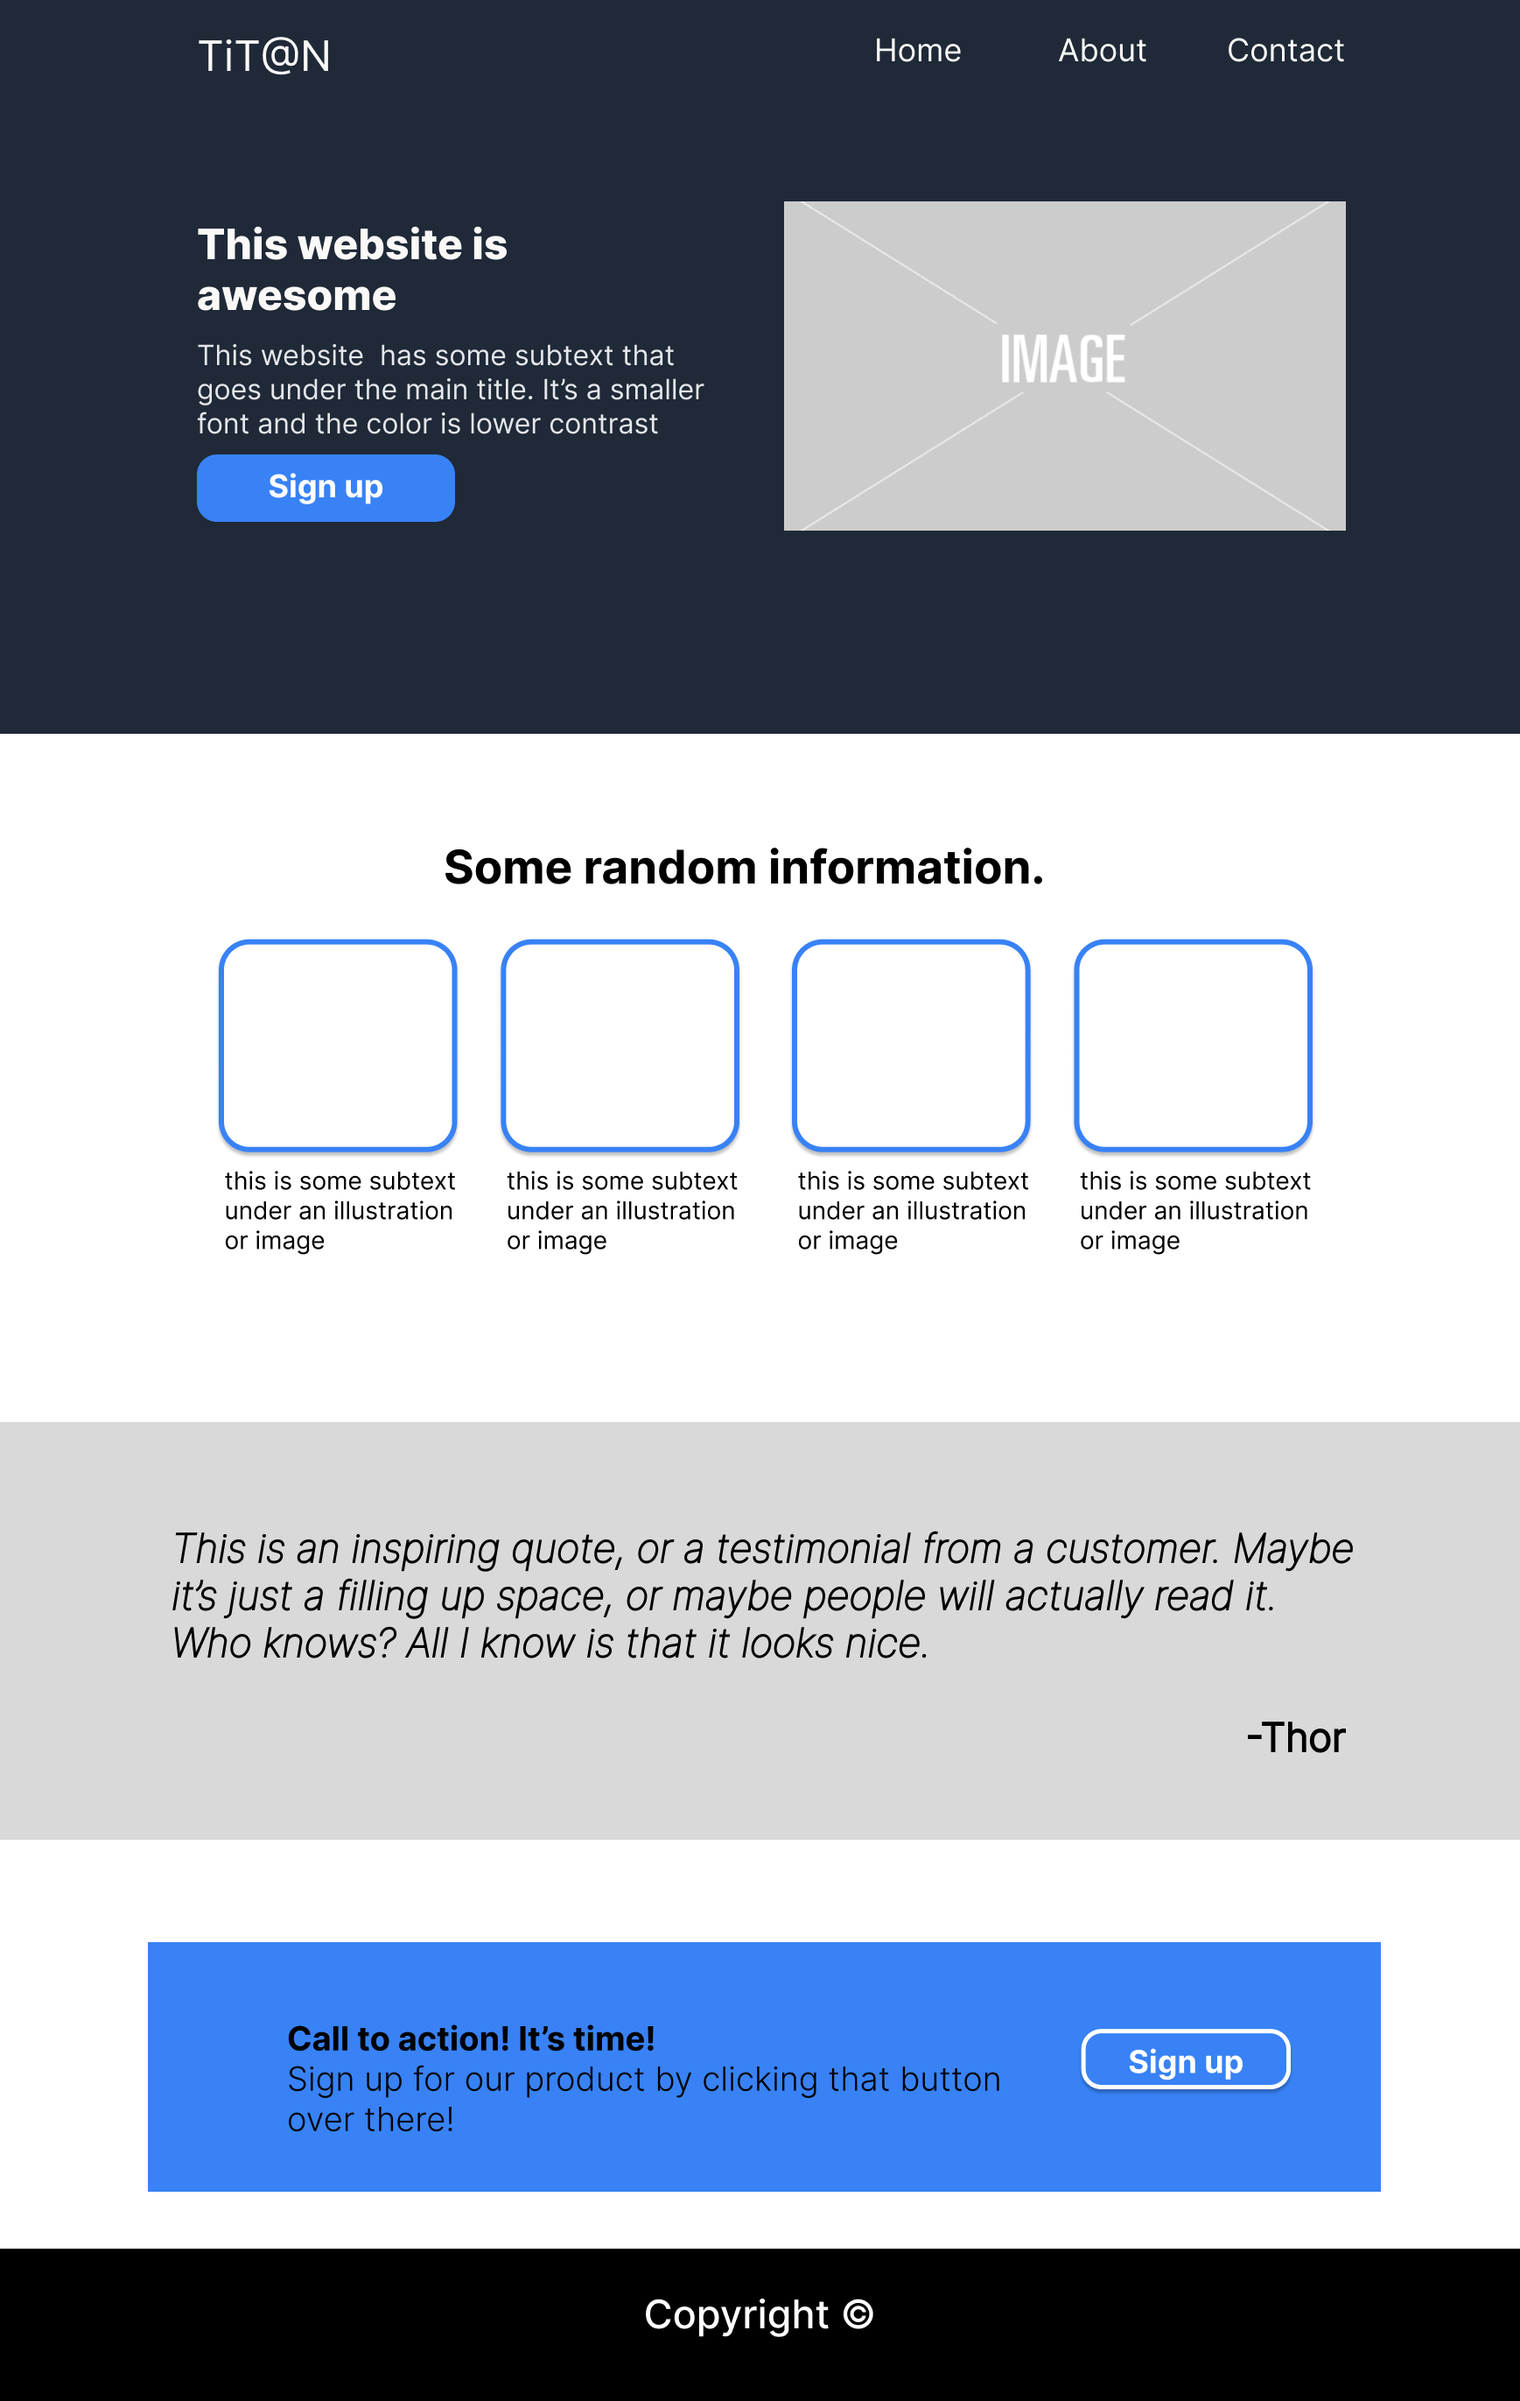
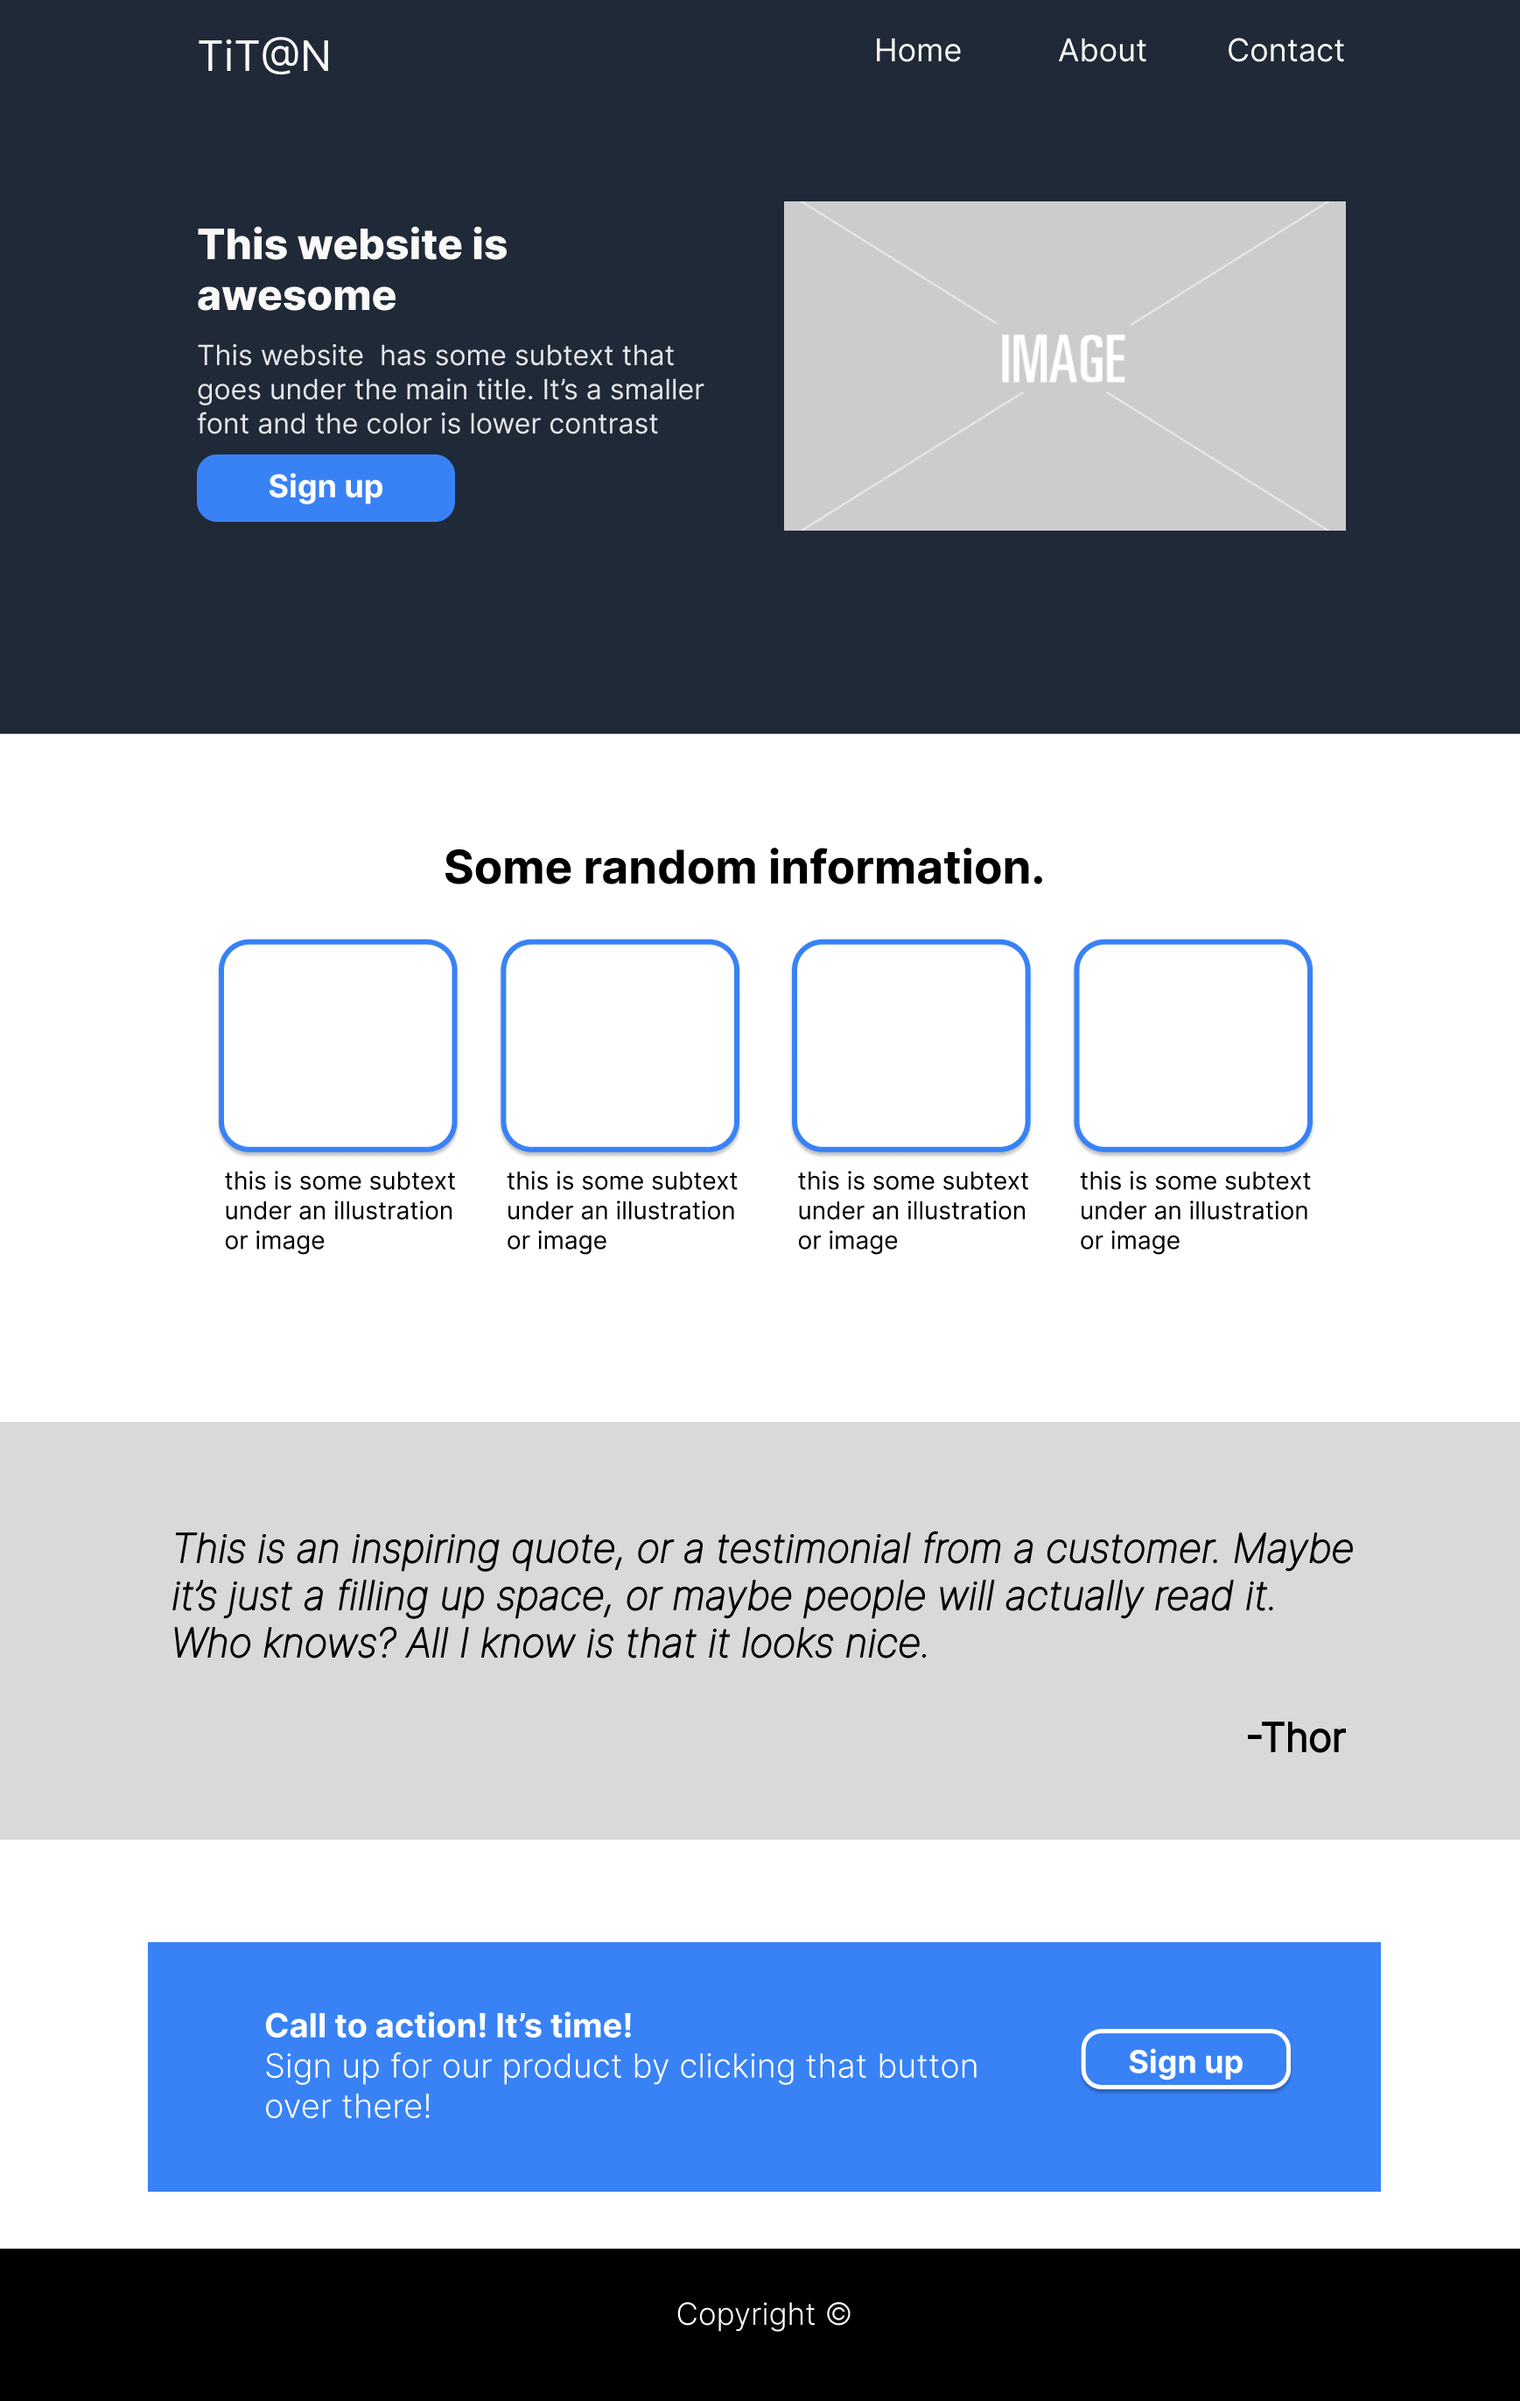
Edit margins and paddings across all pages

Changed region(s): [[0.1554, 0.837, 0.6528, 0.899], [0.4352, 0.961, 0.5596, 0.992]]

diff --git a/css/style.css b/css/style.css
@@ -102,13 +102,11 @@ footer {
     margin-bottom: 30px;
 }
 
-.hero-img {
-    max-width: 100%;
-}
-
 .hero img {
-    border-radius: 30px;
     object-fit: cover;
+    width: 550px;
+    height: 250px;
+    padding-left: 50px;
 }
 
 .hero .wrapper {
@@ -164,7 +162,7 @@ footer {
 
 .quote-box .wrapper {
     background: #E5E7EB;
-    padding: 100px 200px;
+    padding: 70px 200px;
     font-family: 'RobotoLightItalic', sans-serif;
     font-size: 36px;
     color: #1F2937;
@@ -176,7 +174,8 @@ footer {
 
 .quote-box .wrapper .reviewer {
     text-align: right;
-    font-family: 'RobotoRegular';
+    font-family: 'RobotoRegular', sans-serif;
+    font-size: 24px;
 }
 
 .action {
@@ -186,12 +185,12 @@ footer {
 
 .action .wrapper {
     background-color: rgb(56, 130, 246);
-    width: 800px;
+    width: 850px;
     border-radius: 10px;
     display: flex;
     justify-content: space-between;
     color: rgb(249, 250, 248);
-    padding: 50px;
+    padding: 40px 50px;
     align-content: center;
     align-items: center;
 }
@@ -218,7 +217,7 @@ footer {
 }
 
 .company .history{
-    margin-left: 15px;
+    margin-left: 40px;
     line-height: 1.3;
 }
 

diff --git a/pages/about.html b/pages/about.html
@@ -32,15 +32,14 @@
         <section class="hero">
             <div class="wrapper company">
                 <div class="history">
-                    <h1>Only the best digital marketing solutions!</h1>
+                    <h1>Build Your Brand!</h1>
                     <p>Established in the year 2020, we are an award-winning digital marketing
                     agency that specializes in SEO, PPC, and social media marketing. We are here
-                    to help you grow your business and achieve your goals. We are a team of
-                    passionate digital marketers who are always ready to help you. Dedicated
+                    to help you grow your business and achieve your goals. Dedicated
                     to help you build your brand's voice!
                     </p>
                 </div> 
-                <div>
+                <div class="company-img">
                     <img src="../images/about/hero-about-img.jpg" alt="A group of colleagues in front of a computer.">
                 </div>    
             </div>    
